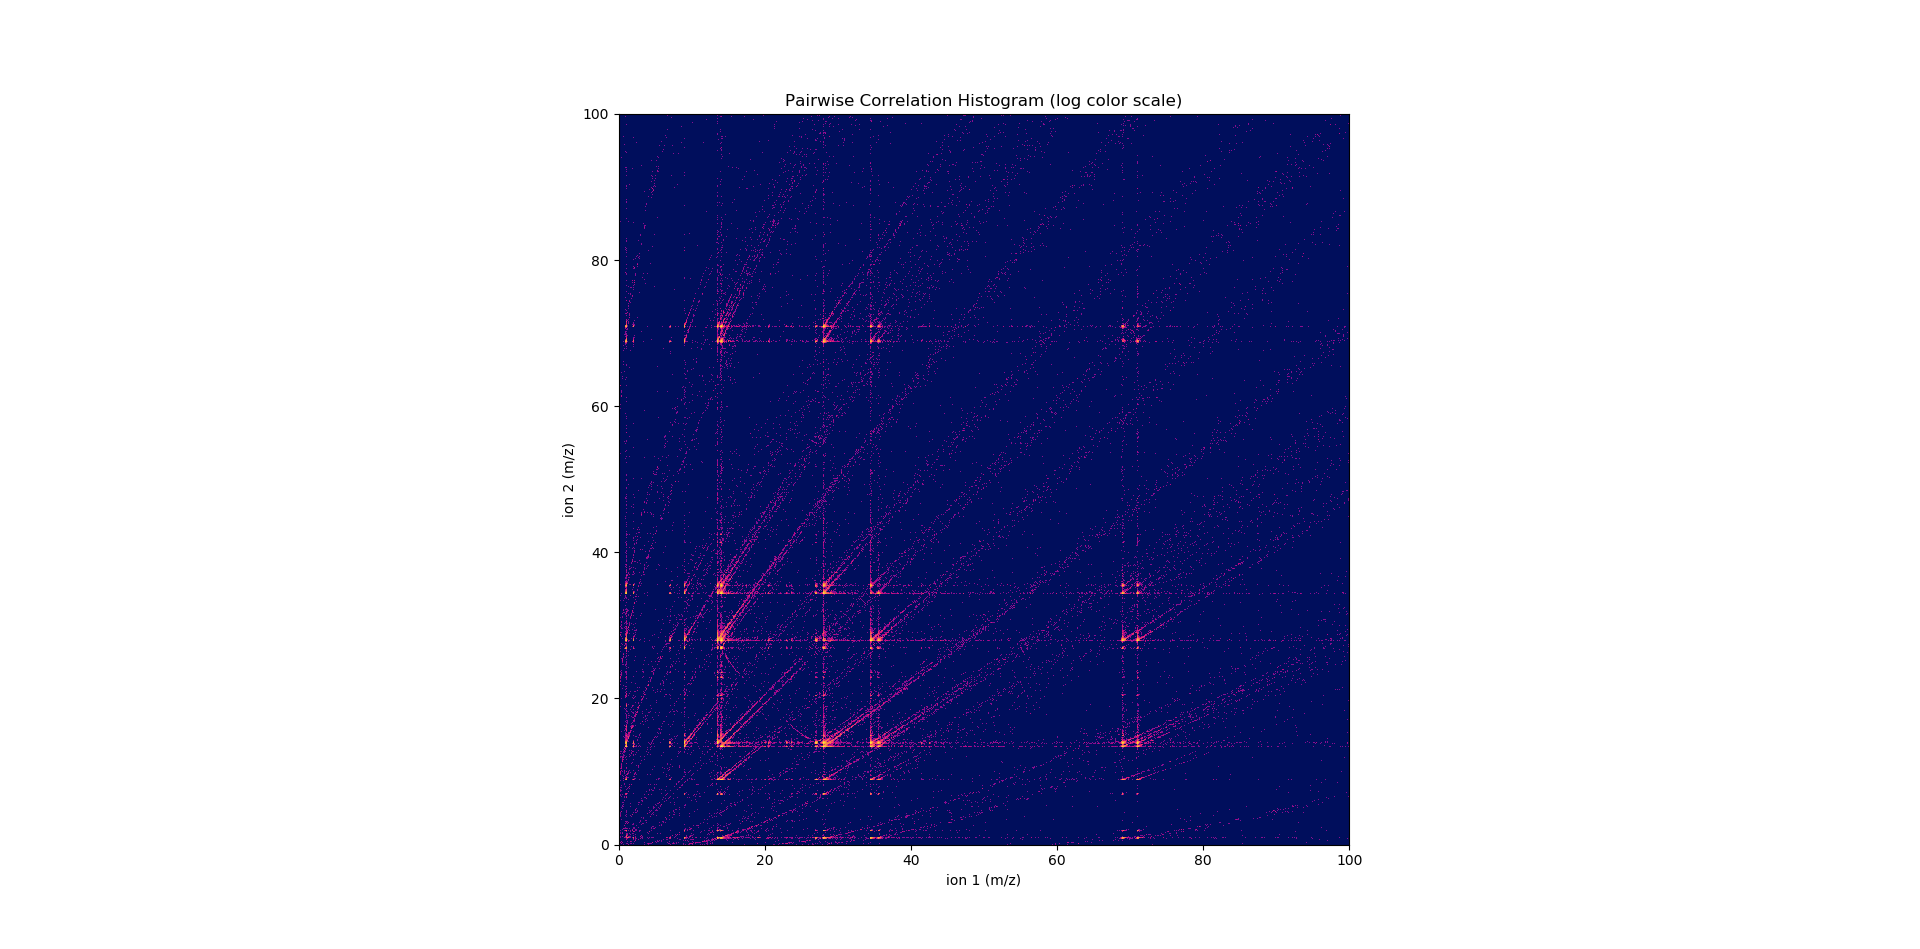
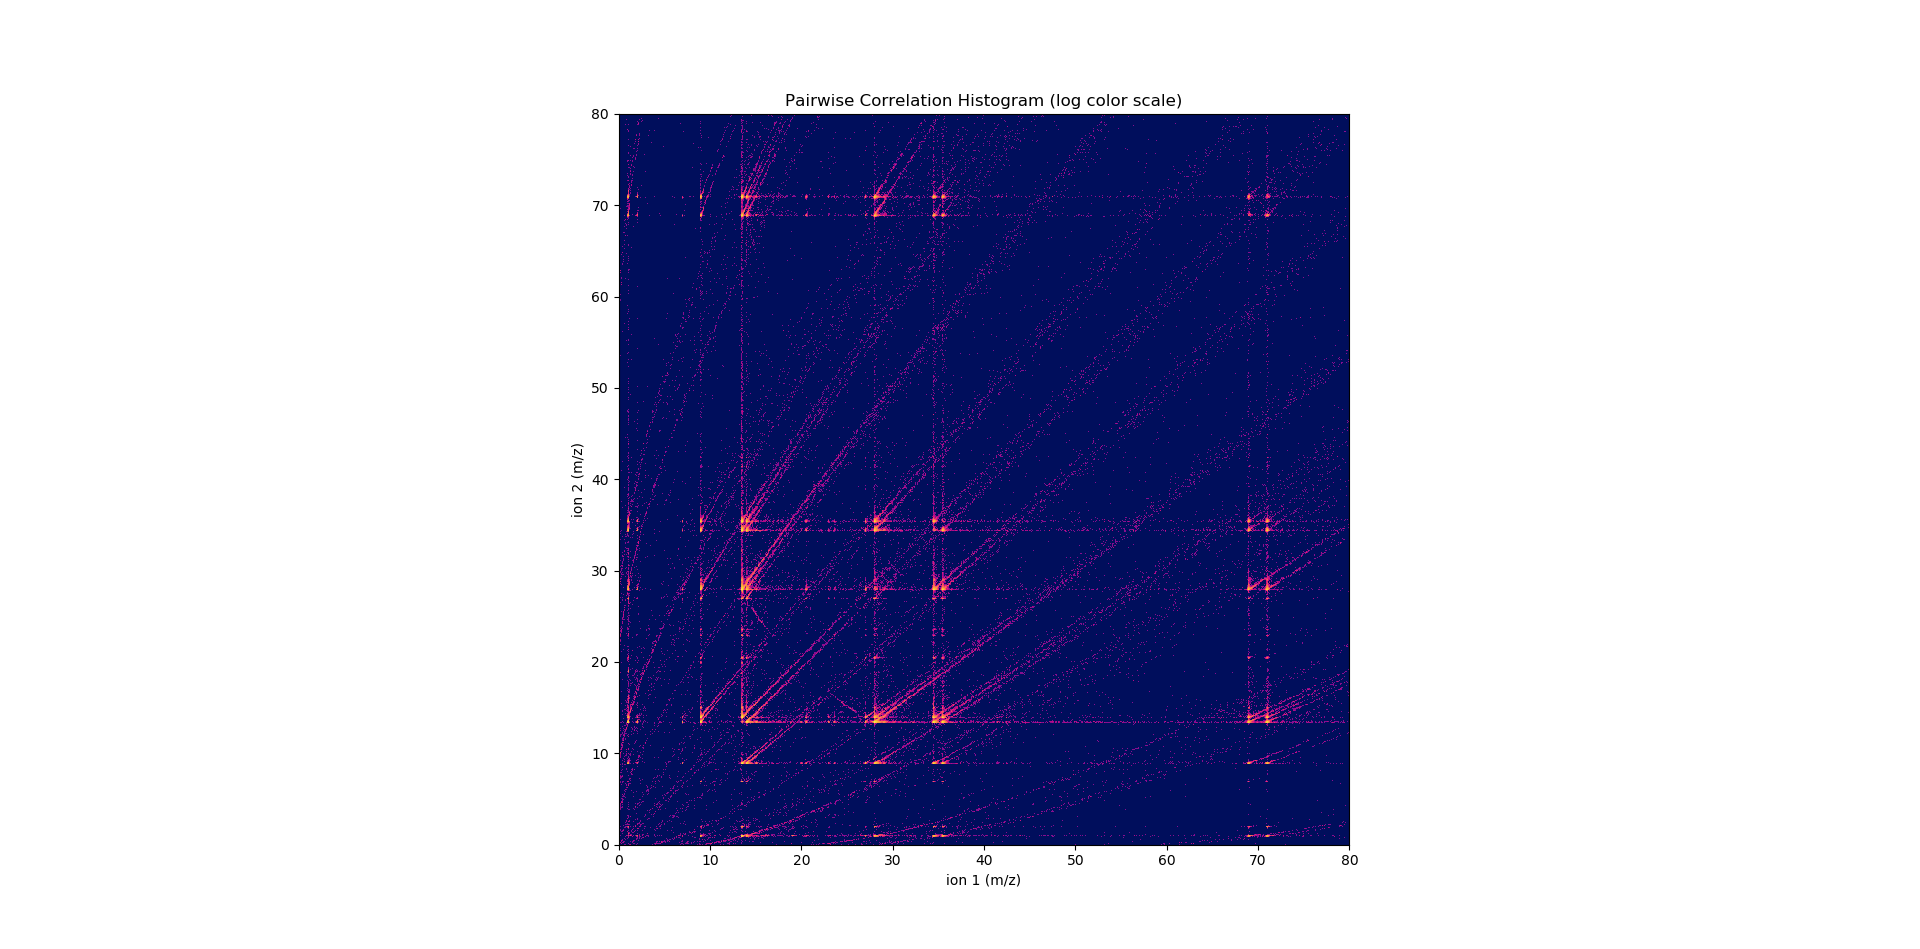
Add line for AlN2+ to Saxey Plot

diff --git a/Figs_AlGaN.py b/Figs_AlGaN.py
@@ -436,13 +436,27 @@ ax.set_ylabel('ion 2 (m/z)')
 #for im in ax.get_images():
 #    im.set_clim(0, 1)
 
-lims = [0,100]
+lims = [0,80]
 ax.set(xlim=lims, ylim=lims)
 ax.set_title('Pairwise Correlation Histogram (log color scale)')
 fig.savefig('AlGaN_m2q_corr_hist.png')
 
 
 
+
+import initElements_P3
+ed = initElements_P3.initElements()
+
+m1 = ed['N'].isotopes[14][0]
+m2 = ed['Al'].isotopes[27][0]
+mp = (m1+m2)/2
+
+Vd_V0 = np.linspace(0,1,2**5)
+
+m1_eff = m1/(1-Vd_V0*(1-m1/mp))
+m2_eff = m2/(1-Vd_V0*(1-m2/mp))
+
+plt.plot(m1_eff,m2_eff,'w--', alpha=0.5)
 
 
 
